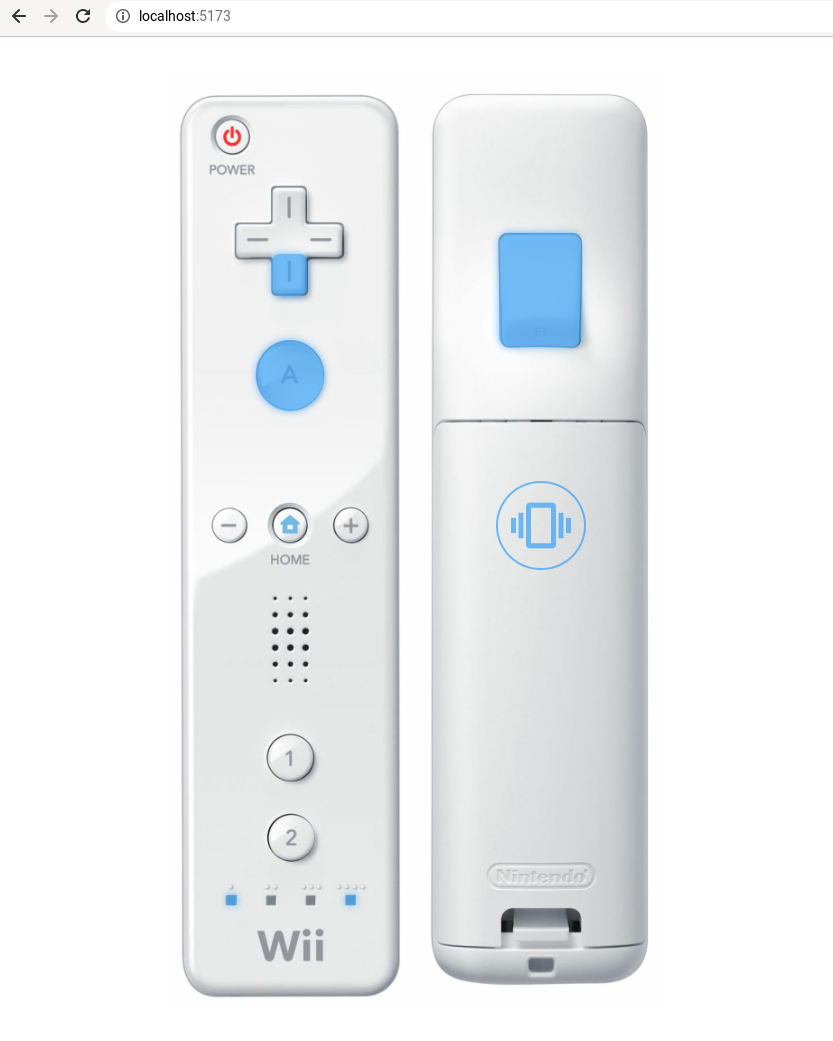
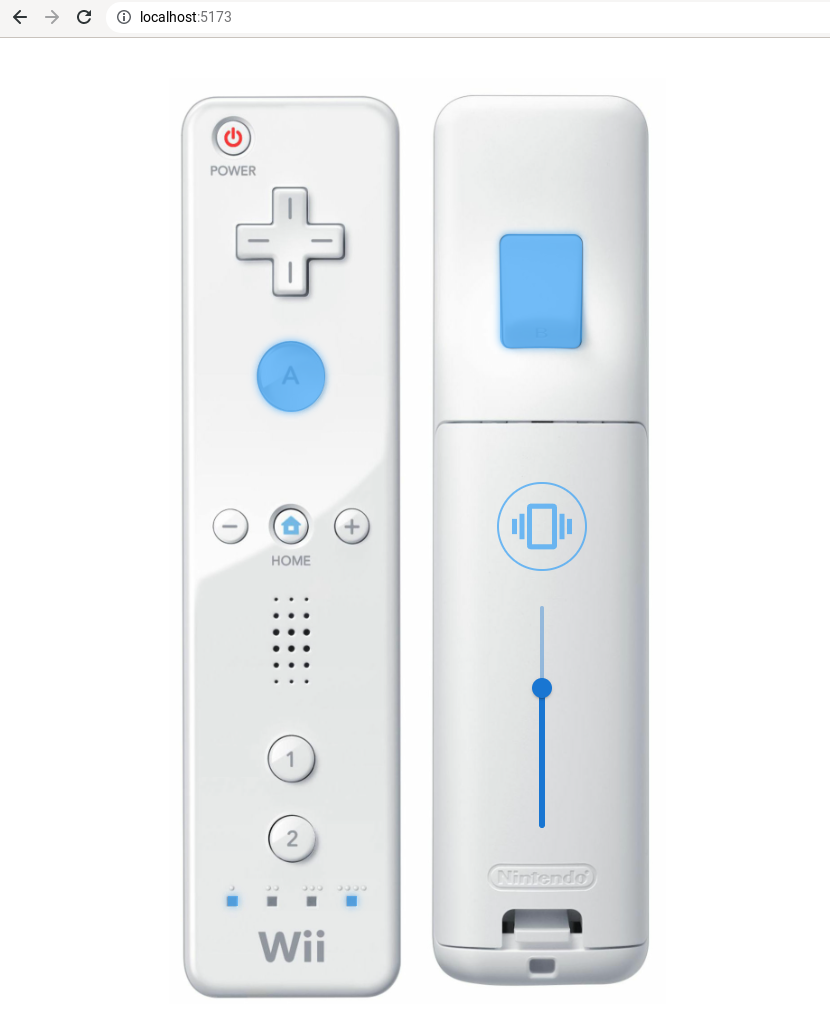
Handle rumble intensity

diff --git a/src/features/WiimoteViewer/Rumble/Rumble.tsx b/src/features/WiimoteViewer/Rumble/Rumble.tsx
@@ -1,6 +1,7 @@
 import VibrationIcon from '@mui/icons-material/Vibration'
+import Slider from '@mui/material/Slider'
 import cx from 'classnames'
-import { useEffect, useState } from 'react'
+import { useEffect, useRef, useState } from 'react'
 
 import { Wiimote } from 'services/wiimote'
 
@@ -10,8 +11,11 @@ type RumbleProps = {
   wiimote: Wiimote
 }
 
+const RUMBLE_STEP = 30
+
 const Rumble = ({ wiimote }: RumbleProps) => {
   const [rumble, setRumble] = useState(wiimote.rumble)
+  const intensity = useRef(wiimote.rumble ? 100 : 0)
 
   useEffect(() => {
     if (!rumble) {
@@ -19,18 +23,41 @@ const Rumble = ({ wiimote }: RumbleProps) => {
     }
     const intervalId = setInterval(() => {
       wiimote.sendRumble(true)
-      setTimeout(() => wiimote.sendRumble(false), 10)
-    }, 30)
-    return () => clearInterval(intervalId)
+      if (intensity.current < 100) {
+        setTimeout(
+          () => wiimote.sendRumble(false),
+          RUMBLE_STEP * (intensity.current / 100)
+        )
+      }
+    }, RUMBLE_STEP)
+    return () => {
+      clearInterval(intervalId)
+      wiimote.sendRumble(false)
+    }
   }, [rumble, wiimote])
 
   return (
-    <button
-      className={cx(styles.root, { [styles.enabled]: rumble })}
-      onClick={() => setRumble(!rumble)}
-    >
-      <VibrationIcon className={styles.icon} />
-    </button>
+    <>
+      <button
+        className={cx(styles.root, { [styles.enabled]: rumble })}
+        onClick={() => setRumble(!rumble)}
+      >
+        <VibrationIcon className={styles.icon} />
+      </button>
+      <Slider
+        className={styles.slider}
+        orientation="vertical"
+        defaultValue={0}
+        onChange={(_, value) => {
+          intensity.current = value as number
+          if (value === 0) {
+            setRumble(false)
+          } else {
+            setRumble(true)
+          }
+        }}
+      />
+    </>
   )
 }
 

diff --git a/src/features/WiimoteViewer/Rumble/Rumble.module.css b/src/features/WiimoteViewer/Rumble/Rumble.module.css
@@ -24,3 +24,10 @@
     color: var(--mui-palette-primary-light);
   }
 }
+
+.slider {
+  position: absolute;
+  top: 57%;
+  left: 72%;
+  height: 24%;
+}
